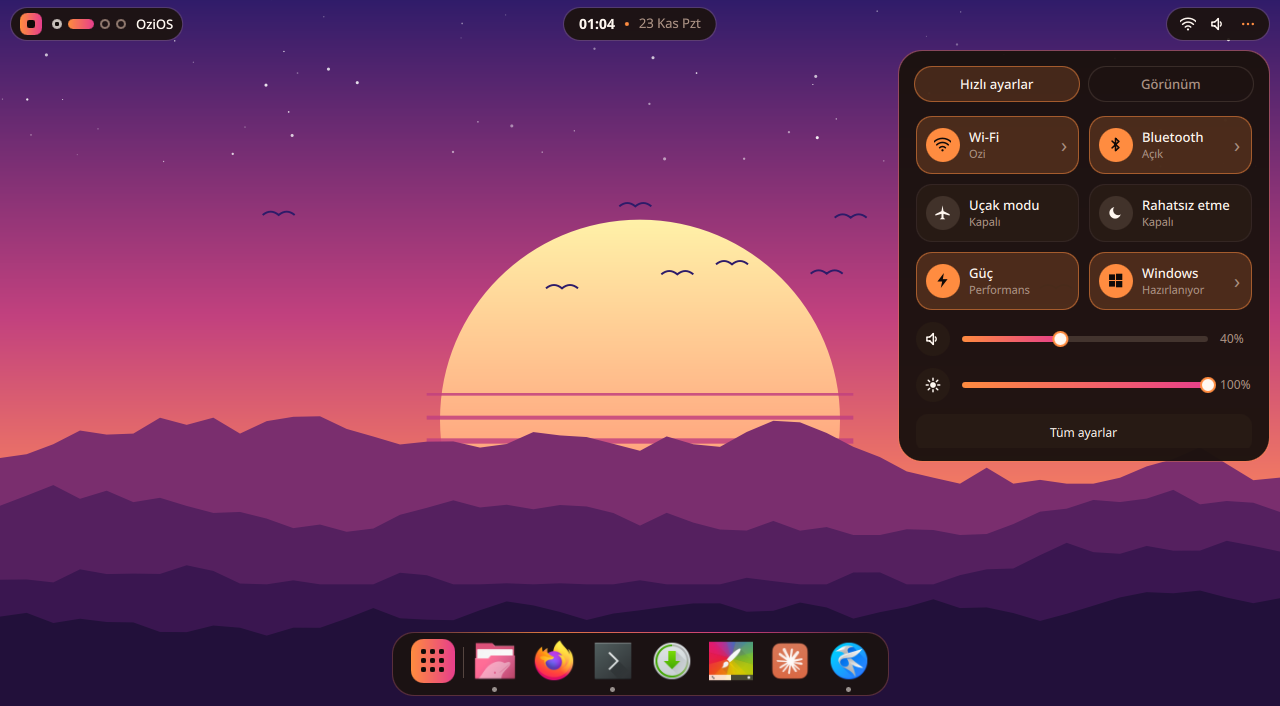
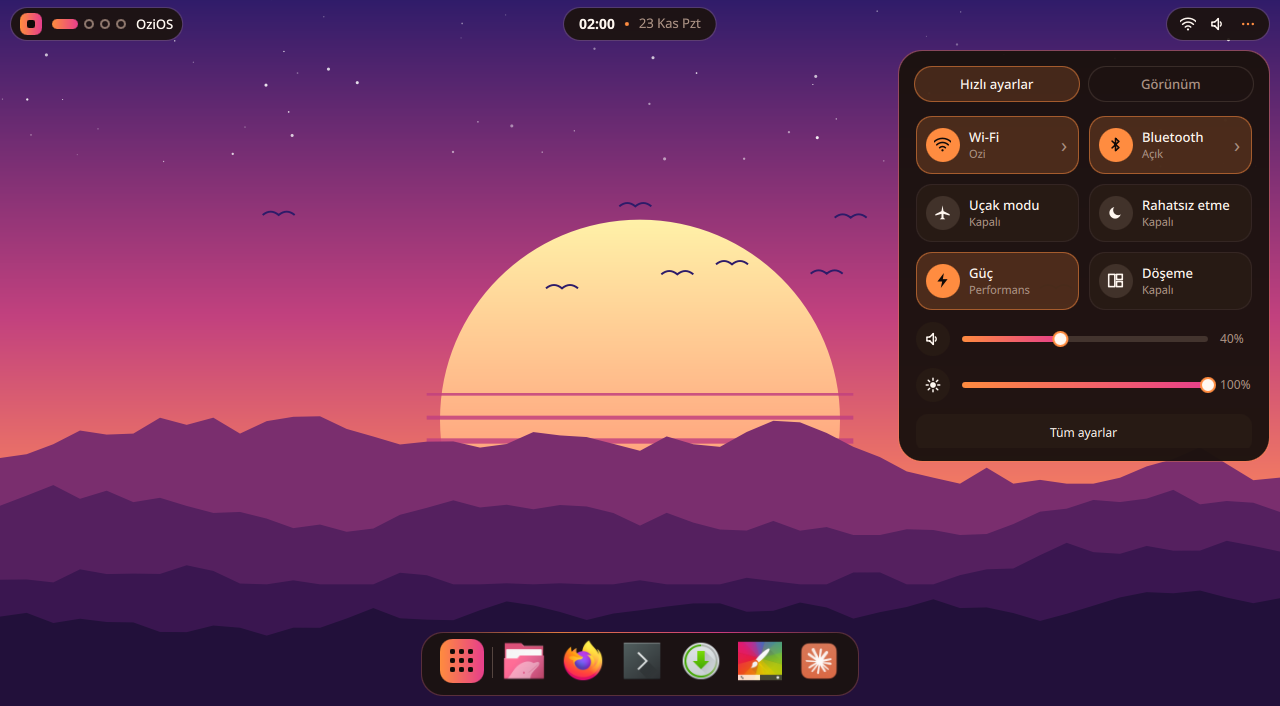
Desktop: a tiling tile, and picture wallpapers after the tesseract
Going from the live tesseract to a picture left the screen black: the
wallpaper decided from `live`, which still held its old value inside the
change handler. It now decides from the chosen wallpaper itself.

The quick settings get a Döşeme tile that tiles the desktop in view, and
fills the place the Windows tile left. New quick settings picture on the site.

Packages: ozi-desktop 0.4.0beta1-6.

Changed region(s): [[0.2812, 0.8725, 0.7188, 0.9972], [0.8438, 0.3428, 1.0, 0.4363], [0.0312, 0.0312, 0.0938, 0.0623]]

diff --git a/shell/qml/QuickPanel.qml b/shell/qml/QuickPanel.qml
@@ -4,7 +4,7 @@ import org.kde.layershell 1.0 as LS
 
 // Quick settings, from the right island. Two pages:
 //   Hızlı    Wi-Fi (with the networks), Bluetooth (with the devices), airplane
-//            mode, do not disturb, power profile, sound and brightness.
+//            mode, do not disturb, power profile, tiling, sound and brightness.
 //   Görünüm  theme, glow, corners, motion, idle lock and the wallpaper; every
 //            window frame follows while the sliders move.
 Window {
@@ -141,6 +141,15 @@ Window {
                             const order = ["power-saver", "balanced", "performance"]
                             Shell.setPowerProfile(order[(order.indexOf(panel.s.power) + 1) % 3])
                         }
+                    }
+                    Tile {
+                        readonly property var desk: Shell.workspaces.find(w => w.active) || {}
+                        c: panel.c; width: parent.tileWidth
+                        glyph: "tiles"
+                        title: "Döşeme"
+                        subtitle: desk.tiling ? "Açık" : "Kapalı"
+                        on: desk.tiling === true
+                        onToggled: Shell.toggleTiling()
                     }
                     Tile {
                         c: panel.c; width: parent.tileWidth

diff --git a/shell/qml/Glyph.qml b/shell/qml/Glyph.qml
@@ -101,6 +101,11 @@ Canvas {
             g.beginPath(); g.moveTo(s * 0.58, s * 0.06); g.lineTo(s * 0.2, s * 0.56); g.lineTo(s * 0.48, s * 0.56)
             g.lineTo(s * 0.4, s * 0.94); g.lineTo(s * 0.8, s * 0.42); g.lineTo(s * 0.52, s * 0.42); g.closePath(); g.fill()
             break
+        case "tiles":
+            g.strokeRect(s * 0.1, s * 0.14, s * 0.36, s * 0.72)
+            g.strokeRect(s * 0.56, s * 0.14, s * 0.34, s * 0.3)
+            g.strokeRect(s * 0.56, s * 0.56, s * 0.34, s * 0.3)
+            break
         case "sun":
             g.beginPath(); g.arc(s / 2, s / 2, s * 0.18, 0, Math.PI * 2); g.fill()
             for (let i = 0; i < 8; i++) {

diff --git a/shell/qml/Wallpaper.qml b/shell/qml/Wallpaper.qml
@@ -72,8 +72,11 @@ Window {
         next.source = path ? "file://" + path : ""
         front = front === 0 ? 1 : 0
     }
-    onChosenChanged: showPicture(live ? "" : chosen)
-    Component.onCompleted: showPicture(live ? "" : chosen)
+    // Decide from `chosen` itself: in this handler `live` may still hold the
+    // value from before the change, which left the screen black when going
+    // from the tesseract to a picture.
+    onChosenChanged: showPicture(chosen === "tesseract" ? "" : chosen)
+    Component.onCompleted: showPicture(chosen === "tesseract" ? "" : chosen)
     Image {
         id: pictureA
         anchors.fill: parent
